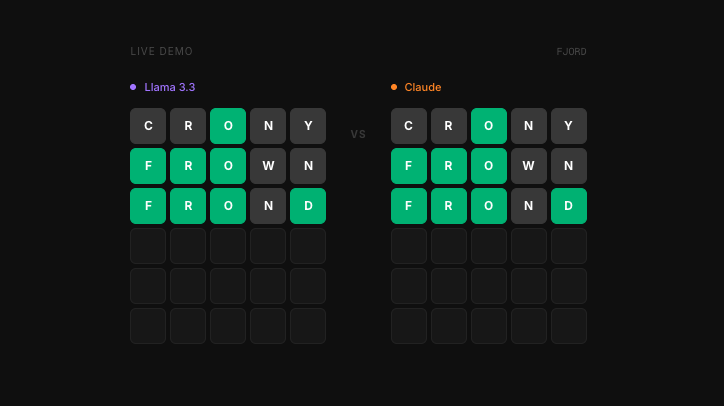
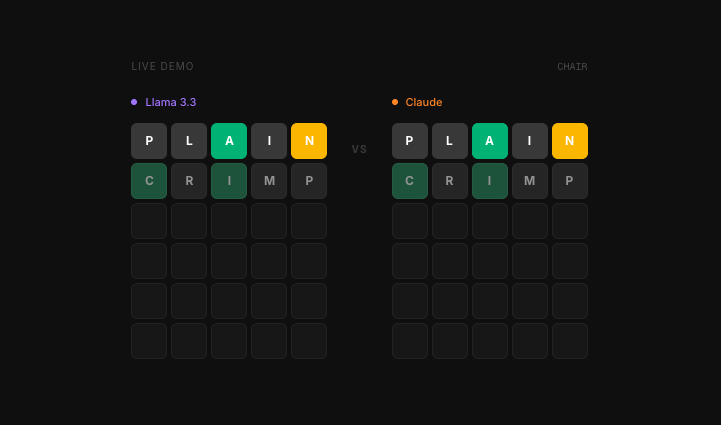
Add moodsonic project

diff --git a/src/data/portfolio.ts b/src/data/portfolio.ts
@@ -144,18 +144,18 @@ export const projects: ProjectItem[] = [
     },
   },
   {
-    title: "Arena",
-    stack: "Go",
+    title: "MoodSonic",
+    stack: "Python",
     award: "",
-    image: "/arena.png",
-    link: "https://github.com/upadhyay1302/arena",
+    image: "/moodsonic.png",
+    link: "https://github.com/upadhyay1302/Smart-and-Reactive-Speaker-System-",
     linkLabel: "View Code",
     modal: {
-      title: "Arena",
+      title: "MoodSonic",
       subtitle: "",
-      image: "/arena.png",
-      body: "Raven is a structured logging library built in Go, supporting colored output, JSON formatting, and live progress bars for a cleaner developer experience. It's engineered to be thread-safe across concurrent goroutines, using channels and atomic operations to coordinate writes without contention. Performance was a core focus: filtered log calls run in under 8 nanoseconds with zero memory allocations, verified through benchmarks and Go's race detector.",
-      links: [{ label: "View Code", url: "https://github.com/haaaarsh4/http_server" }],
+      image: "/moodsonic.png",
+      body: "The Smart and Reactive Speaker System is an embedded music player built on a Raspberry Pi that pairs a camera, display, and speaker to recommend music based on the user's facial expression. A camera feed is analyzed in real time using OpenCV and DeepFace to detect the user's dominant emotion, which drives song selection through the YouTube Music API, with playback handled by VLC for lightweight, low-latency streaming. The UI, built in Tkinter, displays the current song and mood while driving a dynamic lighting feature that shifts and pulses the screen's color to match the detected emotion, adding a layer of ambient feedback to the listening experience. A like/dislike system captures user feedback per song and logs it for future improvements to the emotion-to-song mapping. The system was architected around a modular, multi-process design, a main coordinating module manages independent backend, UI, and emotion-detection subprocesses over inter-process pipes, making each component easy to develop, debug, and extend in isolation.      ",
+      links: [{ label: "View Code", url: "https://github.com/upadhyay1302/Smart-and-Reactive-Speaker-System-" }],
     },
   },
   {